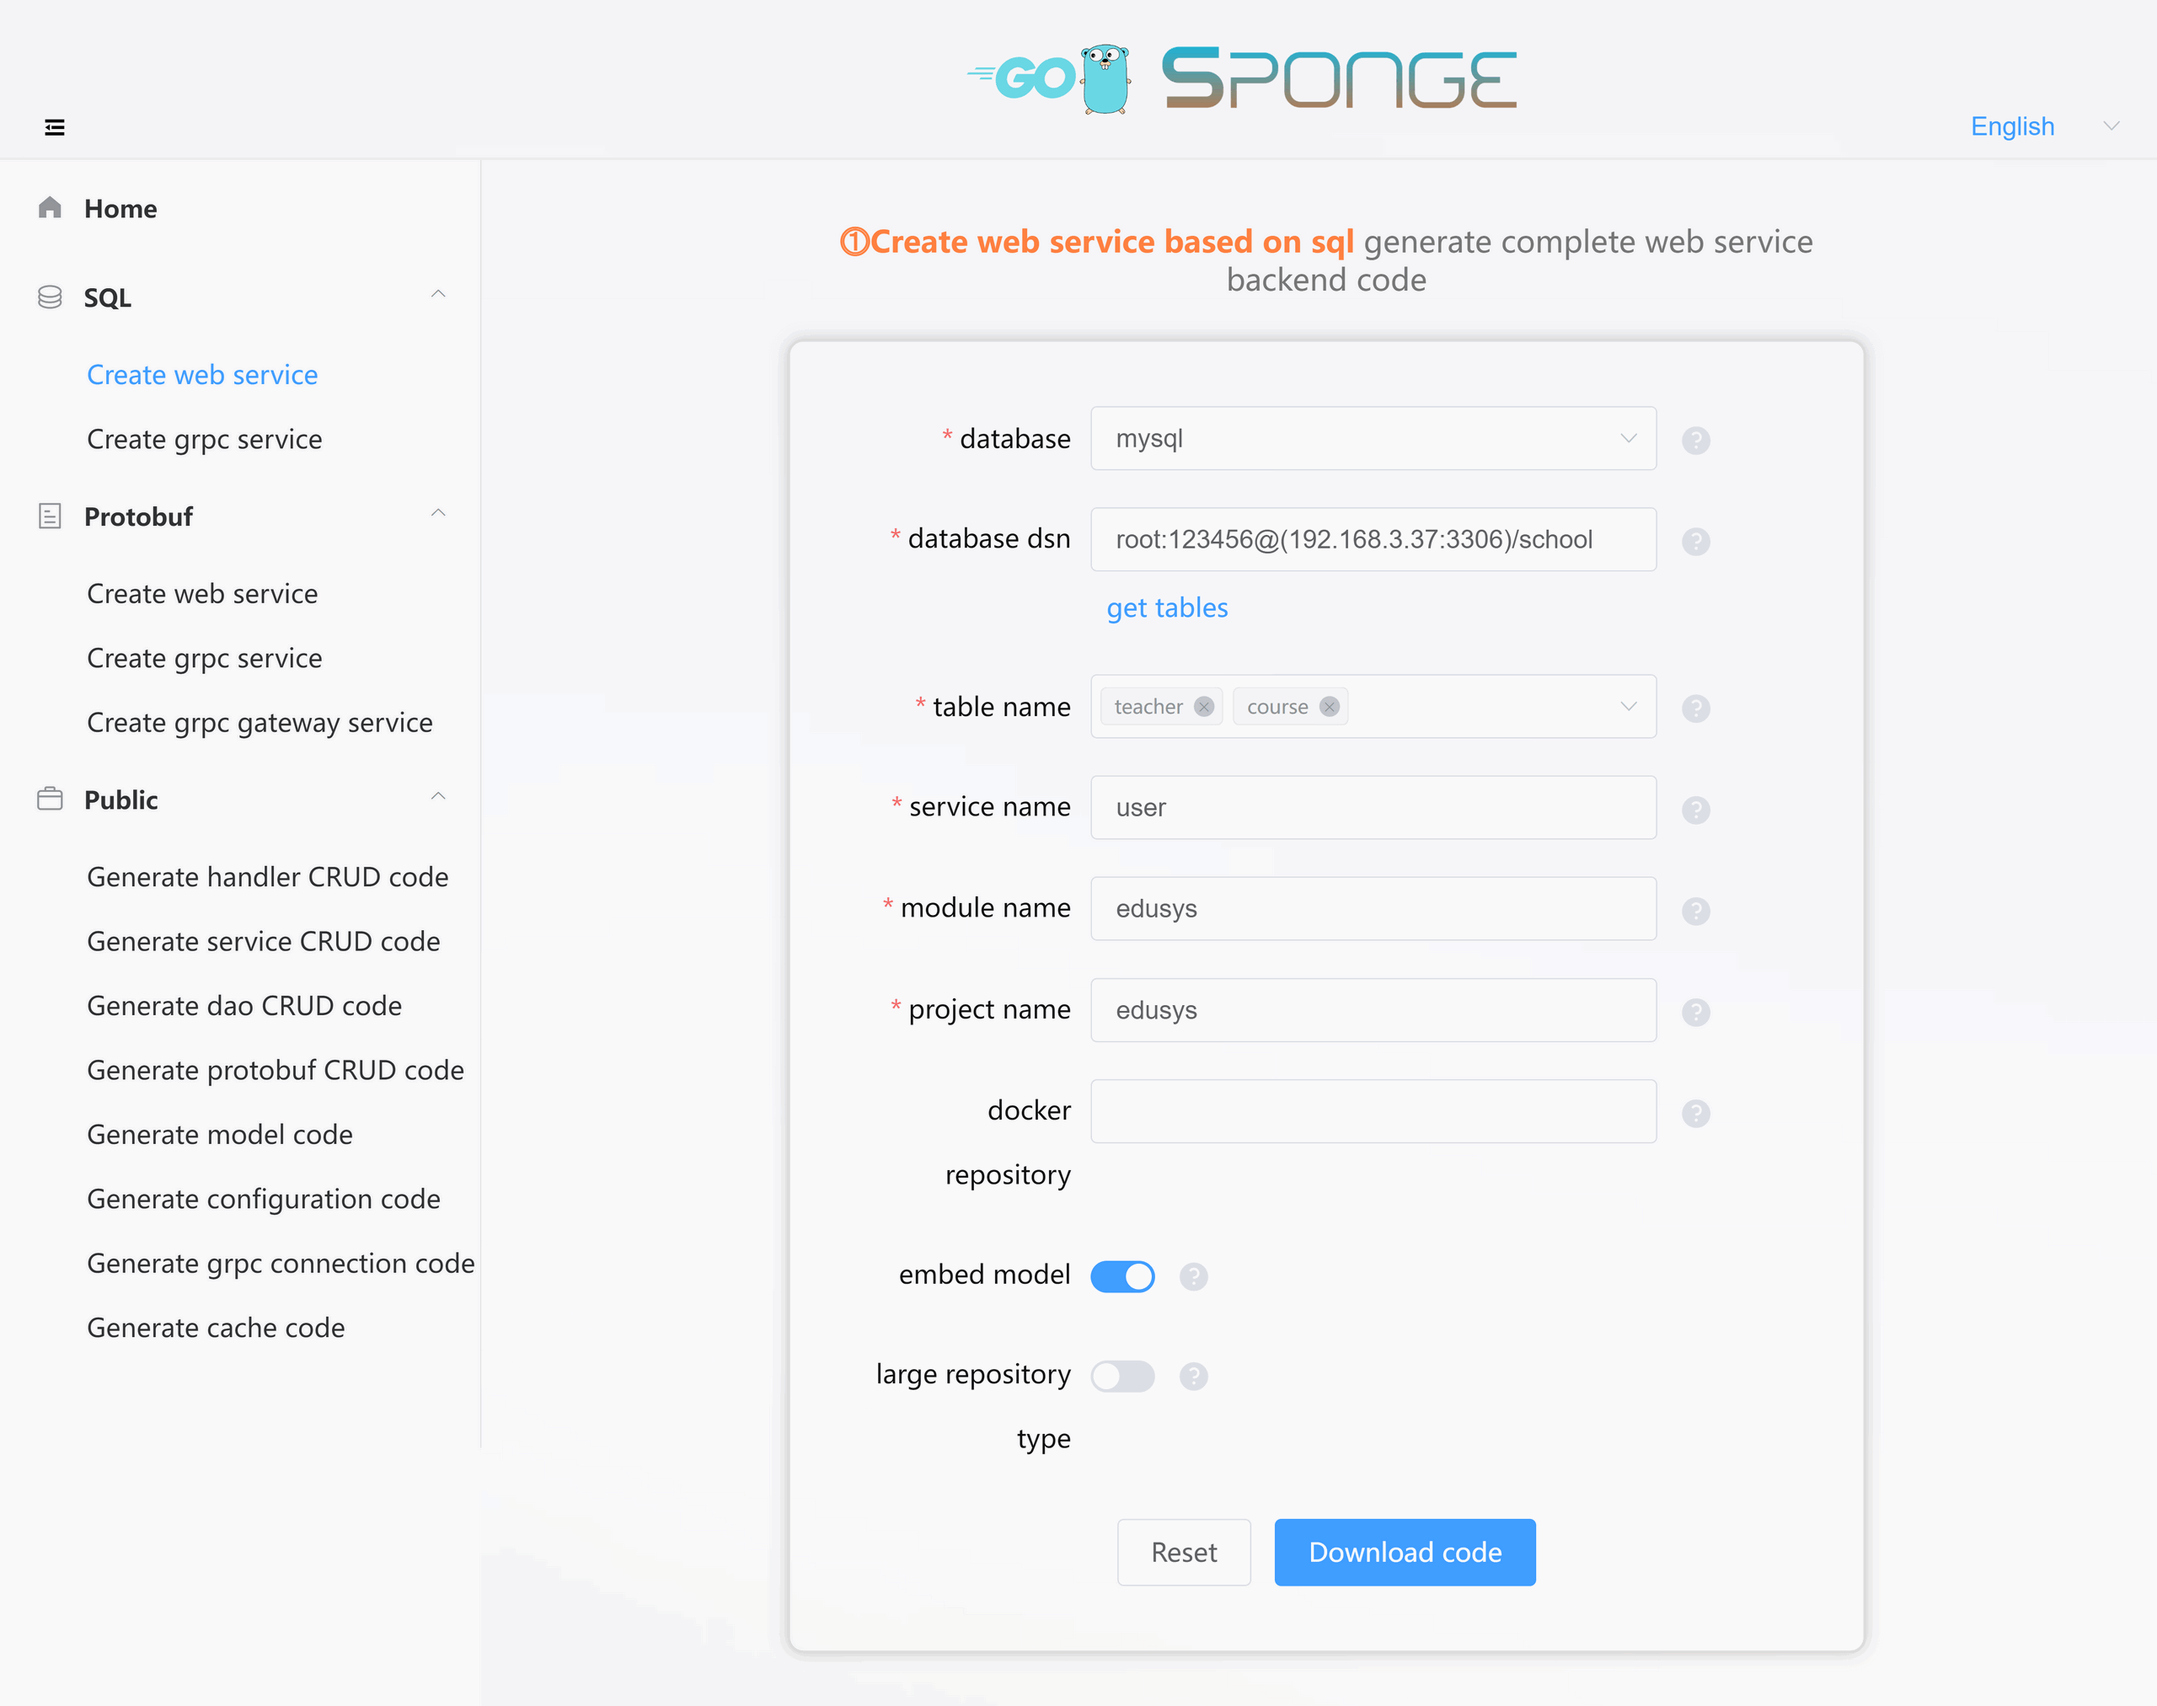
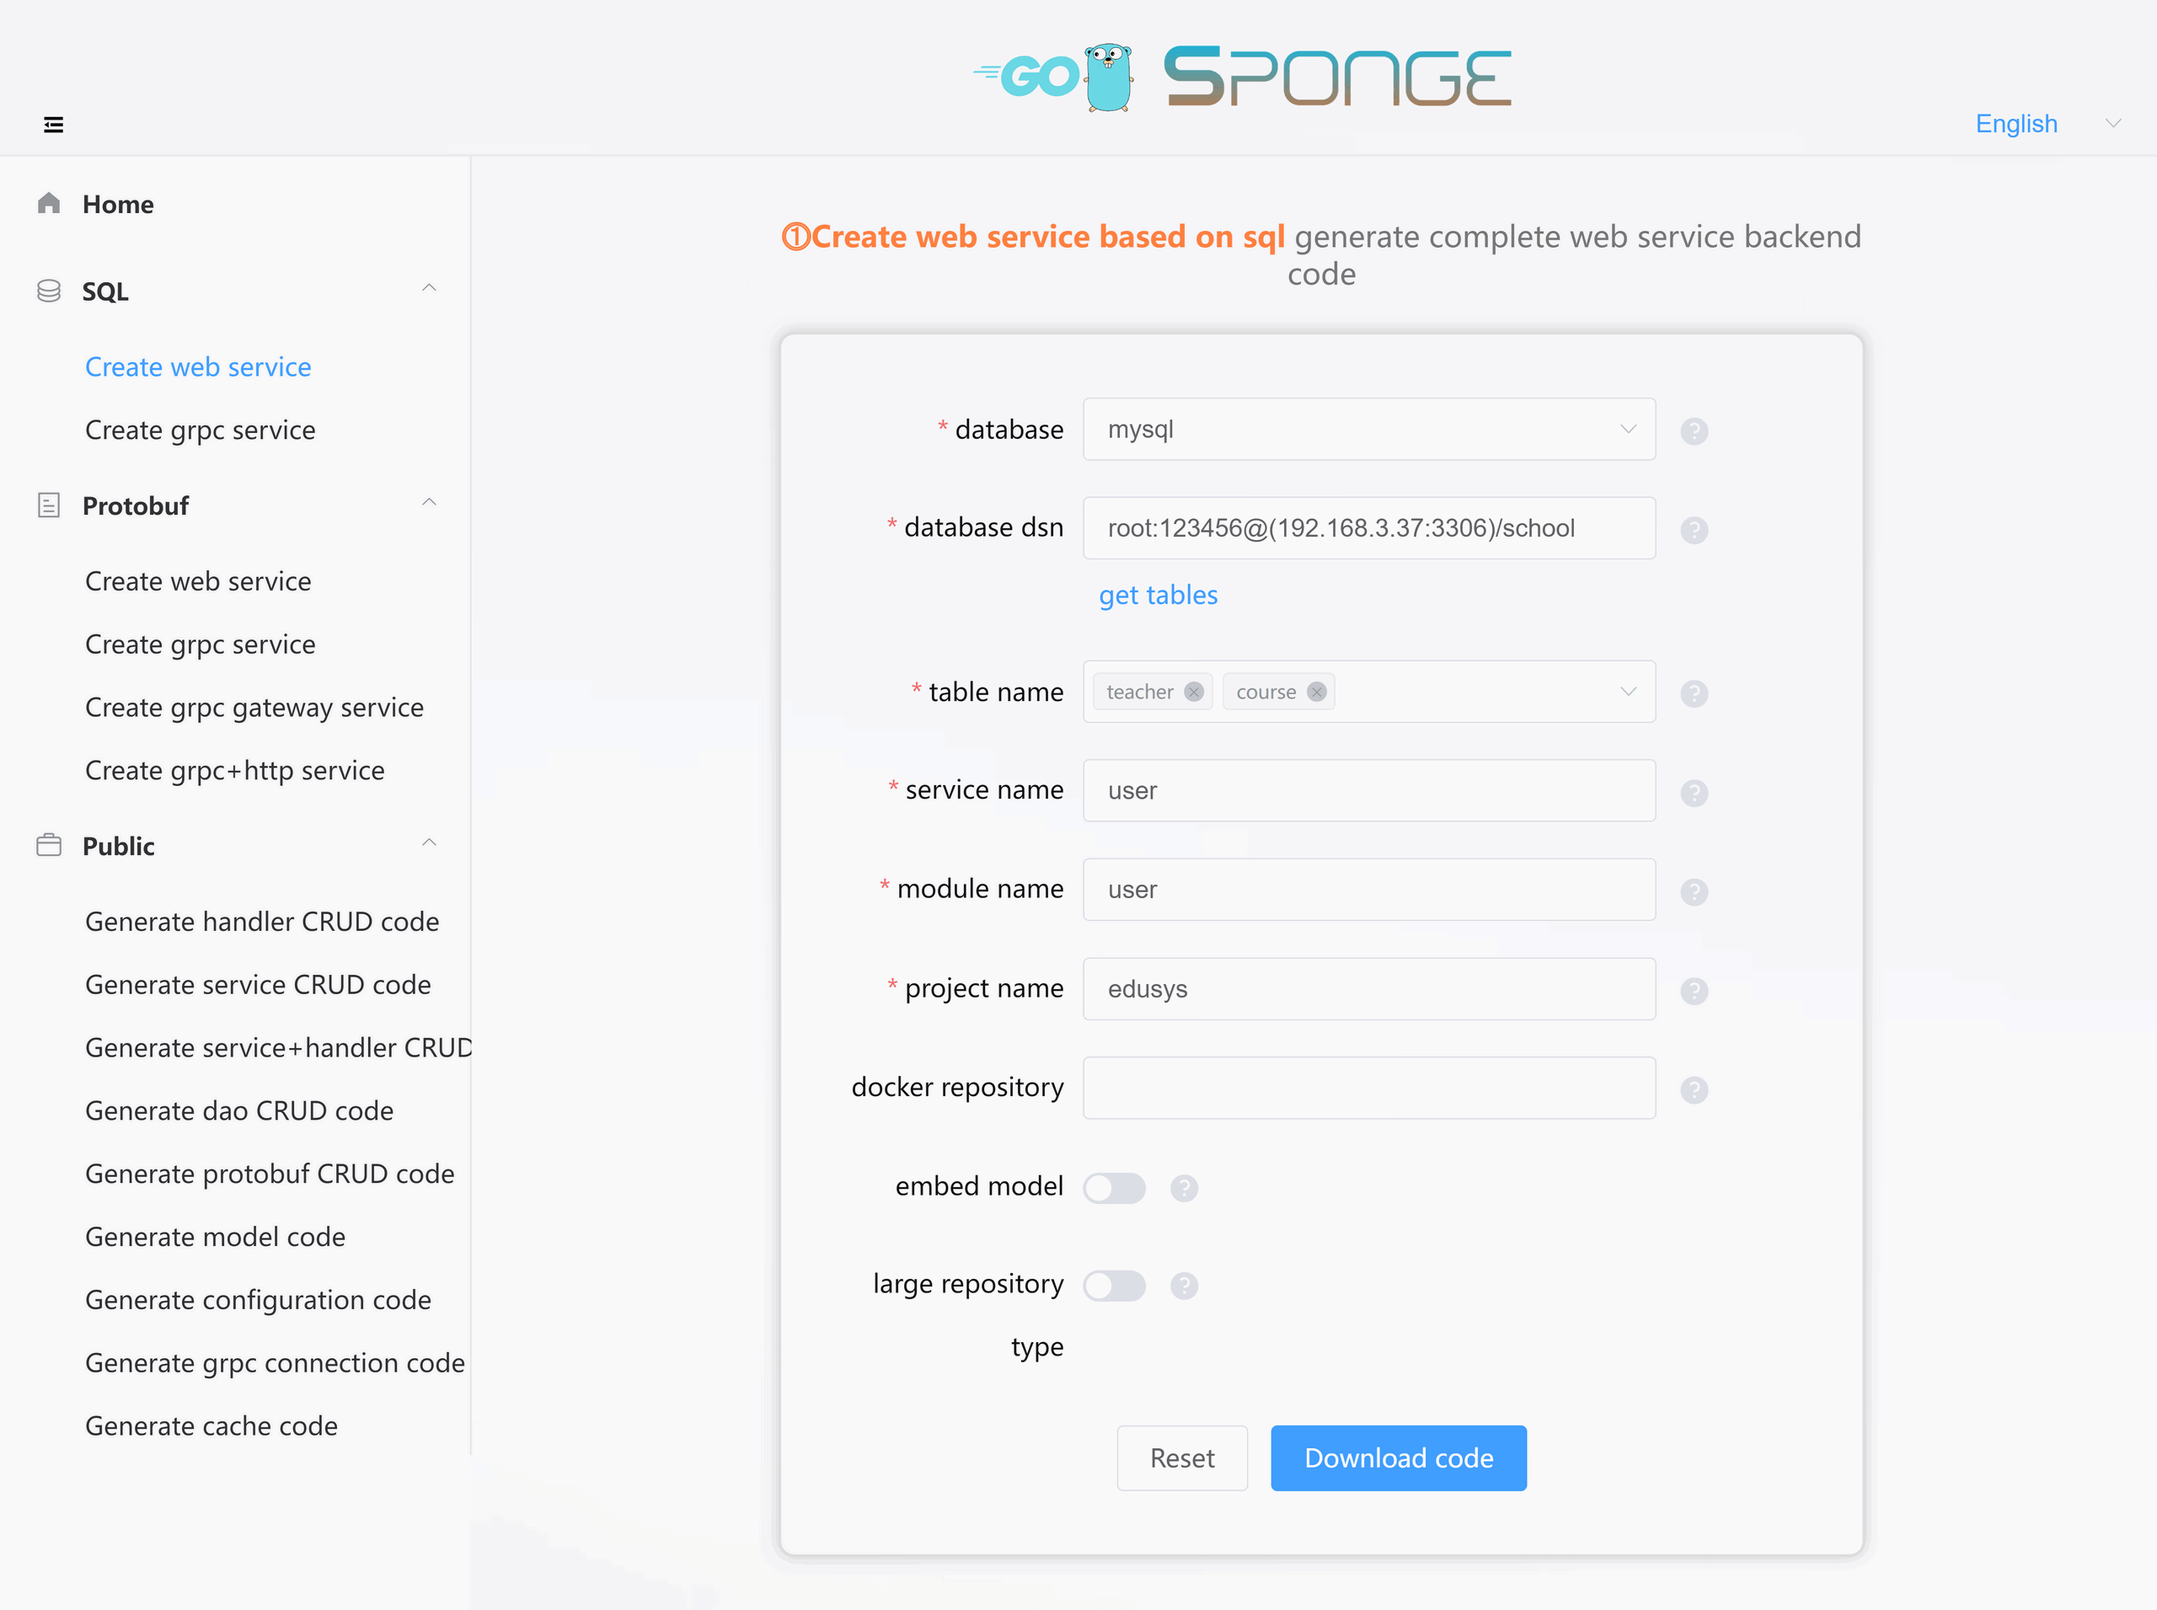
update docs

diff --git a/README.md b/README.md
@@ -15,7 +15,7 @@
 
 </div>
 
-**Sponge** is a powerful development framework that integrates `automatic code generation`, `Gin and GRPC`. Sponge has a rich set of code generation commands, and the generated different functional codes can be combined into a complete service (similar to how artificially broken sponge cells can automatically reassemble into a new complete sponge). From development, testing, API documentation to deployment, one-stop project development greatly improves development efficiency and reduces development difficulty, you can also use the go language to develop projects using the "low-code way".
+**Sponge** is a powerful development framework that integrates `automatic code generation`, `Gin and GRPC`. Sponge has a rich set of code generation commands, and the generated different functional codes can be combined into a complete service (similar to how artificially broken sponge cells can automatically reassemble into a new complete sponge). From development, testing, API documentation to deployment, one-stop project development greatly improves development efficiency and reduces development difficulty, implementation of "low-code way" development projects.
 
 <br>
 
@@ -26,14 +26,6 @@ If you develop generic web or microservices, just focus on the three core parts 
 <br>
 
 ### Sponge Generates the Code Framework
-
-Sponge generated service code supports two types of code repositories:
-
-1. **Monolithic application single repository (monolith) or microservice multi-repository (multi-repo)**: Each service code has its own Git repository. Even if all services are placed in the same Git repository, the code between services cannot be reused. This is the default type generated.
-
-2. **Microservice single repository (mono-repo)**: All services are in the same Git repository, and the code between different services can be reused.
-
-<br>
 
 Sponge is mainly based on `SQL` and `Protobuf` two ways to generate code, each way has to generate code for different functions. `SQL` supports databases **mysql**, **mongodb**, **postgresql**, **tidb**, **sqlite**.
 
@@ -53,19 +45,7 @@ Sponge is mainly based on `SQL` and `Protobuf` two ways to generate code, each w
 
 <br>
 
-#### Generate Service Code for Egg Model
-
-The sponge code generation process strips away the business logic and non-business logic of the two major parts of the code. The code generation function of Sponge can be seen as a hen, and the service code generated by sponge can be seen as eggs. Currently, it supports the generation of 5 common types of service code, Take the generated web service backend code as an example, egg model profiling diagram:
-
-<p align="center">
-<img width="1200px" src="https://raw.githubusercontent.com/zhufuyi/sponge_examples/main/assets/en_web-http-pb-anatomy.png">
-</p>
-
-In addition to the egg model of web service backend code, there are egg models of grpc service code and grpc gateway service code, [click here to view](https://go-sponge.com/learn-about-sponge?id=%f0%9f%8f%b7egg-model-for-generate-service-code).
-
-<br>
-
-### Services framework
+### Microservice framework
 
 Sponge is essentially a microservice framework that includes code generation capabilities. The microservice framework is shown in the following figure, which is a typical microservice hierarchical structure, with high performance, high scalability, contains commonly used service governance features, you can easily replace or add their own service governance features.
 
@@ -164,25 +144,23 @@ Detailed instructions for operating, configuring, and deploying a project using 
 
 ### Examples of use
 
-#### Simple examples
+#### Examples of creating a service using sponge
 
-No specific business logic code is included.
+- [Create **web** service based on **sql** (including CRUD)](https://github.com/zhufuyi/sponge_examples/tree/main/1_web-gin-CRUD)
+- [Create **grpc** service based on **sql** (including CRUD)](https://github.com/zhufuyi/sponge_examples/tree/main/2_micro-grpc-CRUD)
+- [Create **web** service based on **protobuf**](https://github.com/zhufuyi/sponge_examples/tree/main/3_web-gin-protobuf)
+- [Create **grpc** service based on **protobuf** ](https://github.com/zhufuyi/sponge_examples/tree/main/4_micro-grpc-protobuf)
+- [Create **grpc gateway** service based on **protobuf**](https://github.com/zhufuyi/sponge_examples/tree/main/5_micro-gin-rpc-gateway)
+- [Create **grpc+http** service based on **protobuf**](https://github.com/zhufuyi/sponge_examples/tree/main/a_micro-grpc-http-protobuf)
 
-- [1_web-gin-CRUD](https://github.com/zhufuyi/sponge_examples/tree/main/1_web-gin-CRUD)
-- [2_micro-grpc-CRUD](https://github.com/zhufuyi/sponge_examples/tree/main/2_micro-grpc-CRUD)
-- [3_web-gin-protobuf](https://github.com/zhufuyi/sponge_examples/tree/main/3_web-gin-protobuf)
-- [4_micro-grpc-protobuf](https://github.com/zhufuyi/sponge_examples/tree/main/4_micro-grpc-protobuf)
-- [5_micro-gin-rpc-gateway](https://github.com/zhufuyi/sponge_examples/tree/main/5_micro-gin-rpc-gateway)
-- [6_micro-cluster-demo](https://github.com/zhufuyi/sponge_examples/tree/main/6_micro-cluster)
+#### Examples of developing a complete project using sponge
 
-#### Complete project examples
-
-- [7_community-single](https://github.com/zhufuyi/sponge_examples/tree/main/7_community-single)
-- [8_community-cluster](https://github.com/zhufuyi/sponge_examples/tree/main/8_community-cluster)
+- [Simple community web backend service](https://github.com/zhufuyi/sponge_examples/tree/main/7_community-single)
+- [Simple community web service broken down into microservice](https://github.com/zhufuyi/sponge_examples/tree/main/8_community-cluster)
 
 #### Distributed transaction examples
 
-- [9_order-system](https://github.com/zhufuyi/sponge_examples/tree/main/9_order-grpc-distributed-transaction)
+- [Simple distributed order system](https://github.com/zhufuyi/sponge_examples/tree/main/9_order-grpc-distributed-transaction)
 
 <br>
 

diff --git a/.github/RELEASE.md b/.github/RELEASE.md
@@ -1,10 +1,4 @@
 ## Change log
 
-- Code generation supports multiple types of code repositories, you can choose to use `monolithic application single repository (monolith)`, `microservice multi-repository (multi-repo)`, or `microservice single repository (mono-repo)` according to your project needs.
-- Added automated testing scripts for code generation commands.
-- Based on protobuf to generate web services, the generated template code and documentation must meet the following conditions:
-  - rpc cannot be set as stream type.
-  - rpc must set http related information (router and method).
-- RPC stream based on protobuf supports generating corresponding template code and client testing code.
-- The generated code based on protobuf supports some common special types, such as Empty, Any, Timestamp, etc.
-- Fixed known bugs.
+- Add generate grpc+http service code
+- Add generate service+handler CRUD code
